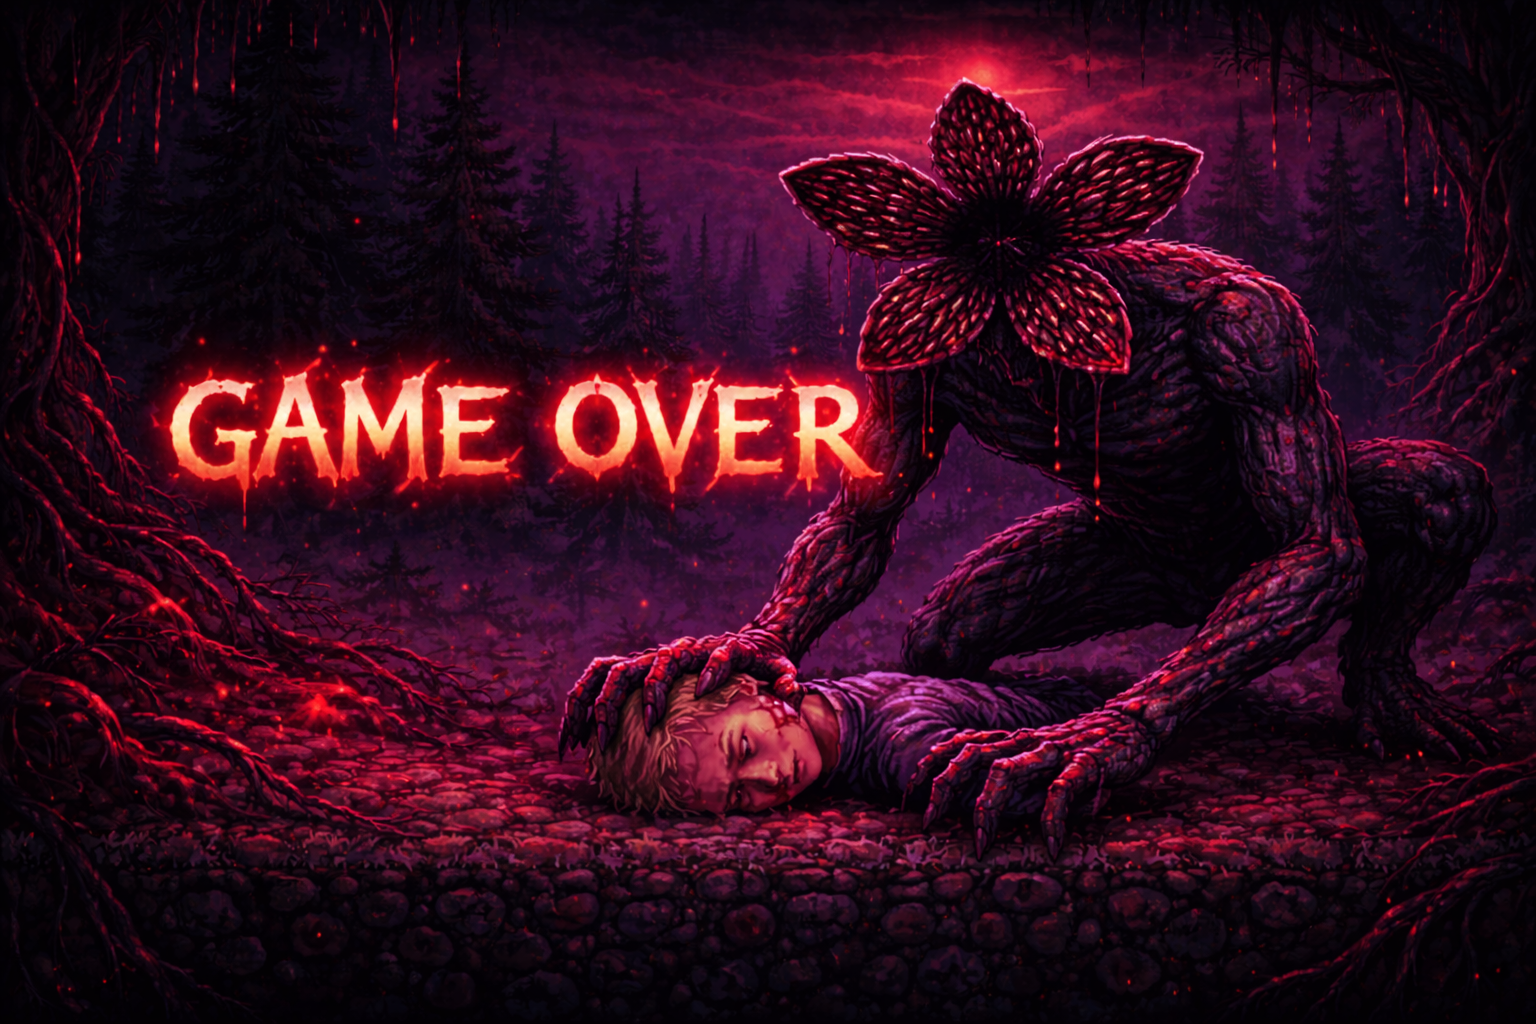
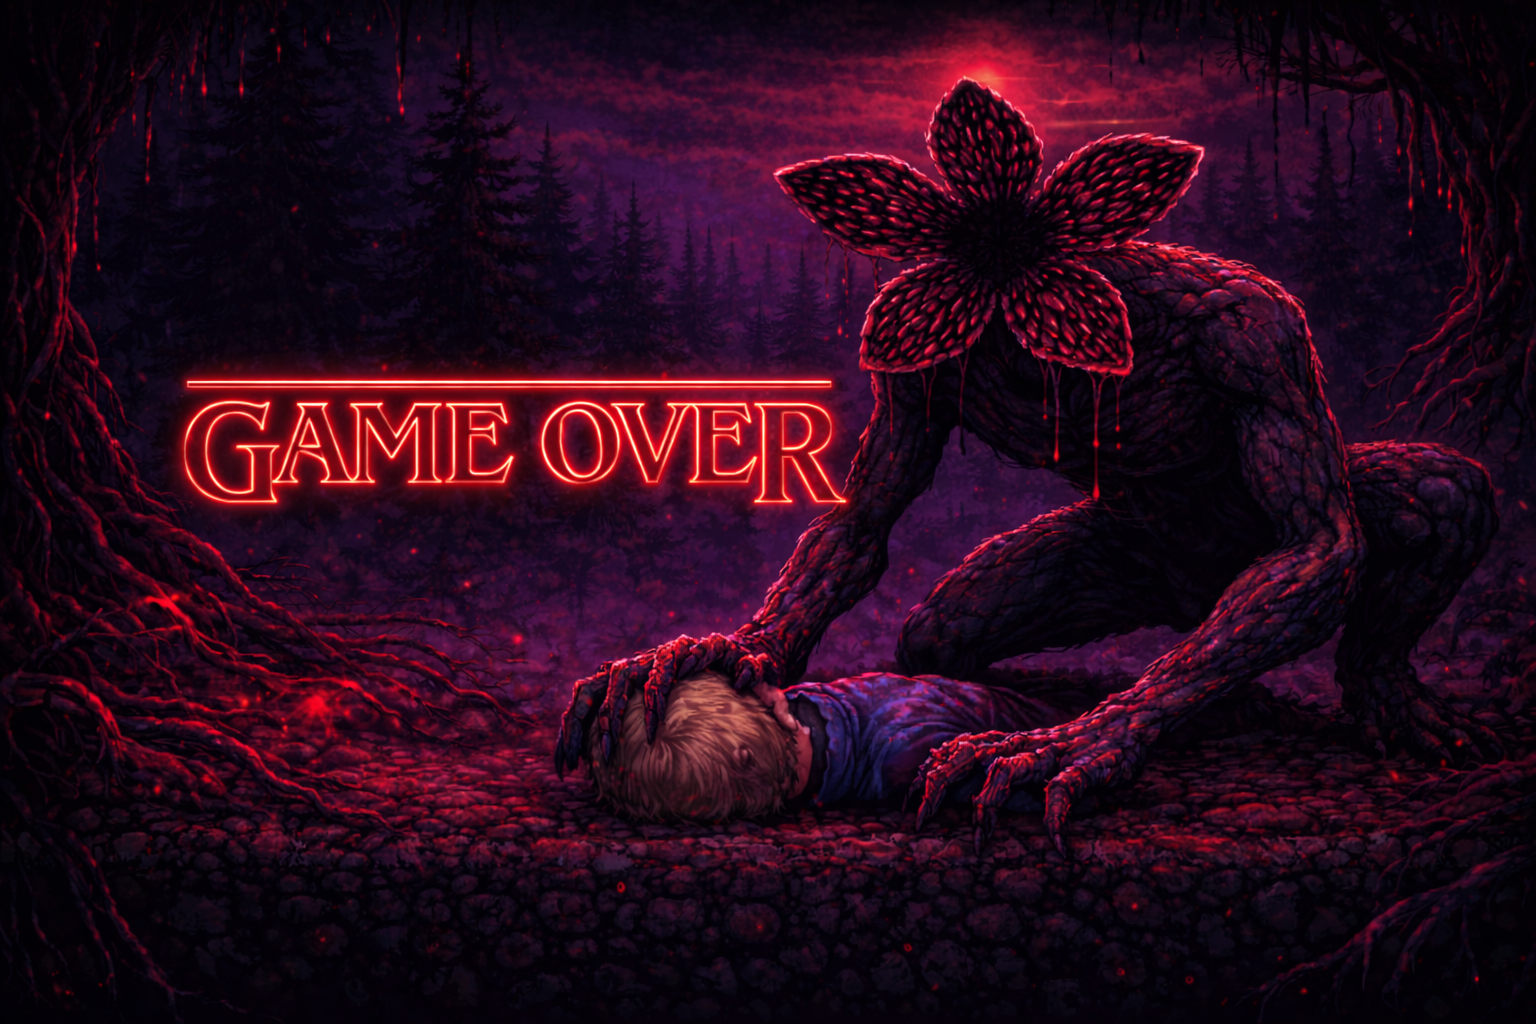
update

diff --git a/style.css b/style.css
@@ -3,13 +3,13 @@ html, body {
   height: 100%;
   margin: 0;
   padding: 0;
-  overflow: hidden; /* 🚀 removes scrollbars */
+  overflow: hidden;
   box-sizing: border-box;
 }
 
 /* ================= GLOBAL ================= */
 body {
-  background: #0a0a14; /* unchanged */
+  background: #0a0a14;
   color: white;
   font-family: Consolas, monospace;
   text-align: center;
@@ -46,7 +46,6 @@ body.menu-active::before {
   padding: 20px;
 }
 
-
 /* ================= FULLSCREEN CANVAS ================= */
 canvas {
   display: none;
@@ -55,19 +54,9 @@ canvas {
   width: 100vw;
   height: 100vh;
   background: #111;
-  border: none;          /* remove box look */
+  border: none;
   margin: 0;
   z-index: 5;
-}
-/* ================= GAME OVER ================= */
-#gameOver {
-  margin-top: 40px;
-  position: relative;
-  z-index: 2;
-}
-
-.hidden {
-  display: none;
 }
 
 /* ================= CHARACTER ================= */
@@ -100,8 +89,6 @@ button {
 }
 
 /* ================= PERFECT MENU CENTERING ================= */
-
-/* center headings cleanly */
 #menu h1,
 #menu h2 {
   text-align: center;
@@ -109,7 +96,6 @@ button {
   margin-right: auto;
 }
 
-/* center character row */
 #characters {
   display: flex;
   flex-wrap: wrap;
@@ -121,8 +107,95 @@ button {
   margin: 10px auto 0 auto;
 }
 
-/* ensure menu content stays centered after restart */
 #menu > * {
   position: relative;
   z-index: 2;
+}
+
+/* ========================================================= */
+/* 🔥🔥🔥 CINEMATIC GAME OVER SCREEN 🔥🔥🔥 */
+/* ========================================================= */
+
+#gameOver {
+  position: fixed;
+  inset: 0;
+
+  display: flex;
+  flex-direction: column;
+  justify-content: center;
+  align-items: center;
+  text-align: center;
+
+  /* 🎬 YOUR BACKGROUND IMAGE */
+  background-image: url("assets/gameover-bg.png");
+  background-size: cover;
+  background-position: center;
+  background-repeat: no-repeat;
+
+  z-index: 999;
+}
+
+/* dark cinematic vignette */
+#gameOver::before {
+  content: "";
+  position: absolute;
+  inset: 0;
+  background:
+    radial-gradient(circle at center,
+      rgba(0,0,0,0.45) 0%,
+      rgba(0,0,0,0.75) 55%,
+      rgba(0,0,0,0.92) 100%);
+  z-index: 0;
+}
+
+/* bring content above overlay */
+#gameOver > * {
+  position: relative;
+  z-index: 1;
+}
+
+/* 🔥 title glow */
+#gameOver h1 {
+  font-size: 48px;
+  letter-spacing: 3px;
+  margin-bottom: 20px;
+  color: #ff4d4d;
+  text-shadow:
+    0 0 10px rgba(255,0,0,0.7),
+    0 0 25px rgba(255,0,0,0.5),
+    0 0 45px rgba(255,0,0,0.25);
+}
+
+/* score text */
+#gameOver p {
+  font-size: 20px;
+  margin: 6px 0;
+  opacity: 0.95;
+}
+
+/* 🔥 cinematic button */
+#gameOver button {
+  margin-top: 30px;
+  padding: 14px 28px;
+  font-size: 16px;
+  font-family: Consolas, monospace;
+  cursor: pointer;
+
+  background: rgba(20,20,30,0.9);
+  color: white;
+  border: 2px solid #ff3c3c;
+  border-radius: 6px;
+
+  transition: all 0.25s ease;
+}
+
+#gameOver button:hover {
+  transform: scale(1.08);
+  background: #ff3c3c;
+  box-shadow: 0 0 18px rgba(255,60,60,0.8);
+}
+
+/* ================= UTIL ================= */
+.hidden {
+  display: none !important;
 }
